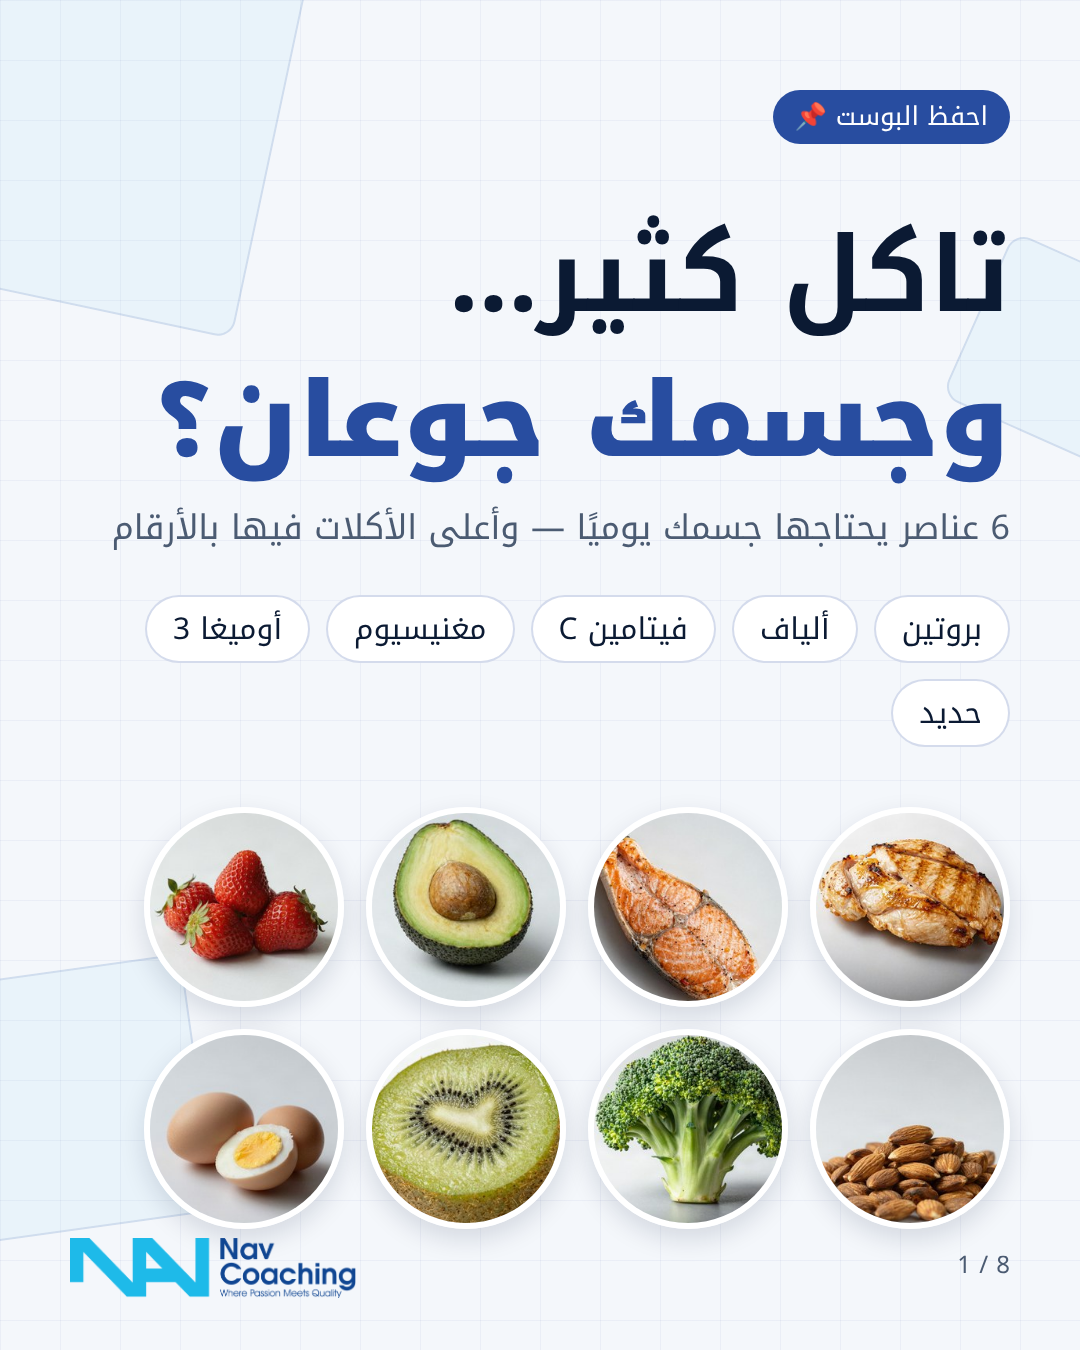
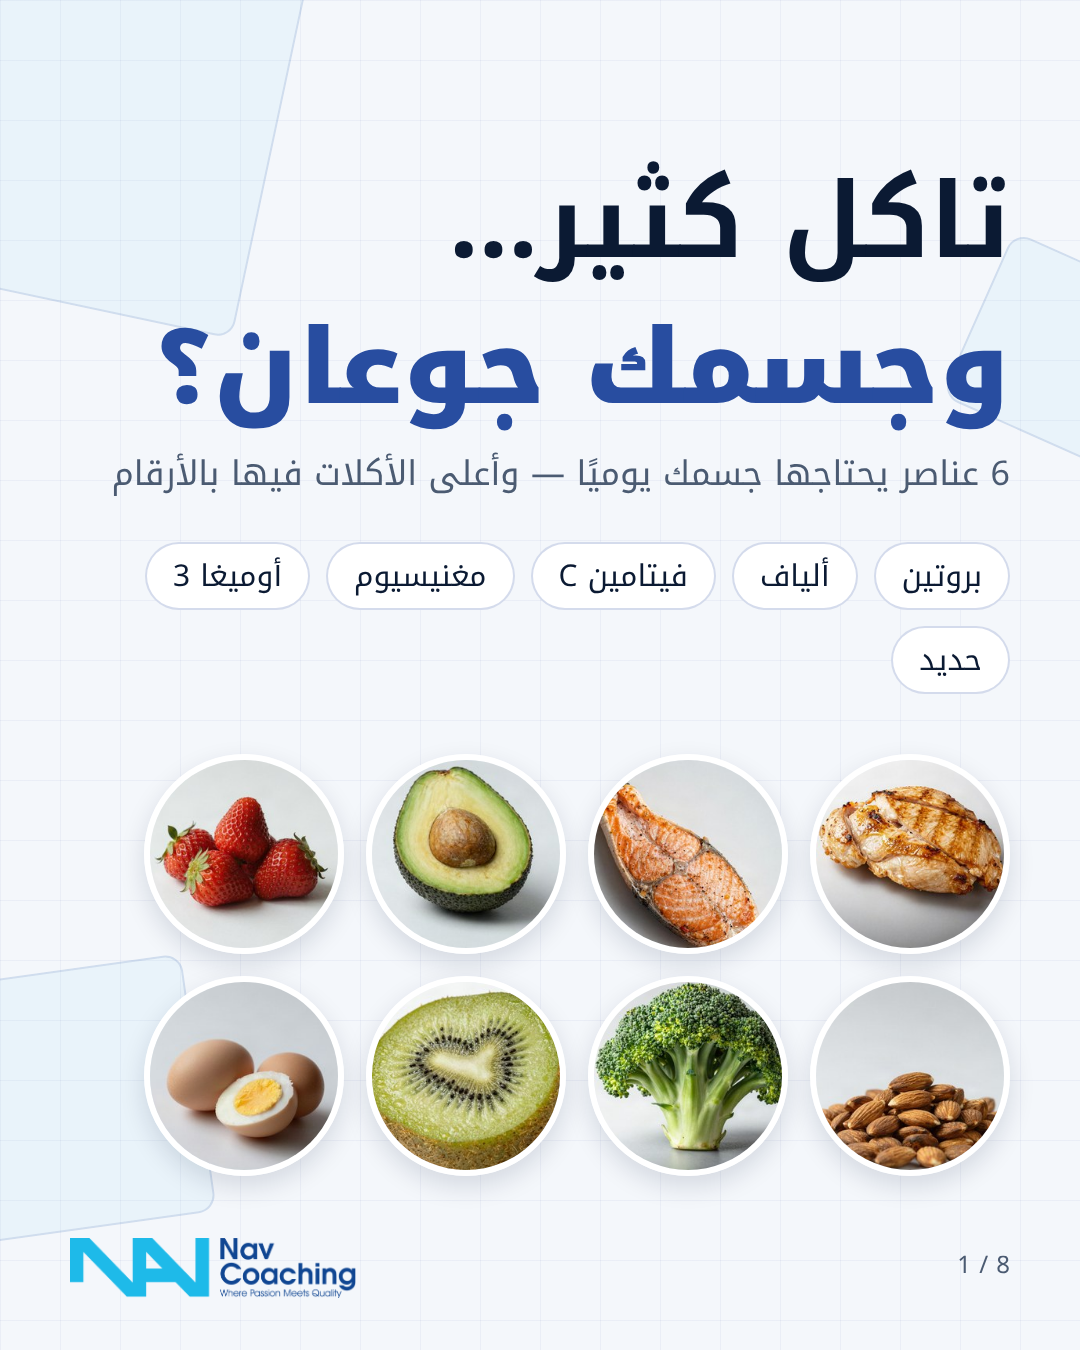
foods carousel: critique fixes - nutrient as hero, values at bar tips, spotlight #1, drop eyebrows
Claude-Session: https://claude.ai/code/session_014K8VAaJoHdbEmLTmDkRNee

Changed region(s): [[0.0917, 0.0622, 0.9472, 0.9333], [0.1222, 0.56, 0.5194, 0.9333], [0.4278, 0.1556, 0.4889, 0.1867]]

diff --git a/instagram/foods/slides.html b/instagram/foods/slides.html
@@ -10,20 +10,23 @@ section.s{width:1080px;height:1350px;position:relative;overflow:hidden;backgroun
 h1{font-size:64px;line-height:1.45;margin:22px 0 6px;word-spacing:4px}
 h1 b{color:#284da0}
 .sub{font-size:26px;color:#4b5b72;line-height:1.6;margin-bottom:34px}
-.row{display:flex;align-items:center;gap:18px;height:100px}
+.row{display:flex;align-items:center;gap:18px;height:92px}
 .ph{width:88px;height:88px;border-radius:50%;object-fit:cover;border:4px solid #fff;box-shadow:0 6px 16px #0b1a3322;flex:none}
 .lb{width:230px;font-size:32px;font-weight:600;line-height:1.5}
 .tr{flex:1;height:58px;background:#284da00f;border-radius:14px;position:relative;overflow:hidden}
 .br{position:absolute;right:0;top:0;bottom:0;border-radius:14px;background:linear-gradient(270deg,#284da0,#4cc5ed)}
-.row:first-child .br{background:linear-gradient(270deg,#0b1a33,#284da0)}
-.v{width:170px;font-size:34px;font-weight:800;text-align:left;white-space:nowrap}
+.rows .row:first-child .br{background:linear-gradient(270deg,#0b1a33,#284da0)}
+.v{position:absolute;top:50%;transform:translateY(-50%);font-size:32px;font-weight:800;white-space:nowrap;line-height:1}
+.v.in{color:#fff}.v.in small{color:#ffffffcc}
+.hero{font-size:96px;line-height:1.25;color:#284da0;margin:0 0 8px}.hero .k{font-size:44px;color:#0b1a33;font-weight:700}
+.rows .row:first-child .ph{width:104px;height:104px}.rows .row:first-child .lb{font-weight:800;width:214px}
 .v small{font-size:20px;color:#4b5b72;font-weight:500}
 .note{margin-top:26px;background:#fff;border-right:8px solid #4cc5ed;border-radius:14px;padding:18px 26px;font-size:26px;line-height:1.65;box-shadow:0 8px 24px #0b1a3310}
 .cover h1{font-size:104px;line-height:1.4;margin-top:60px}
 .cover .sub{font-size:34px}
 .chips{display:flex;flex-wrap:wrap;gap:16px;margin-top:40px}.chips span{background:#fff;border:2px solid #284da033;border-radius:40px;padding:8px 26px;font-size:30px;line-height:1.6}
 .col{display:flex;flex-wrap:wrap;gap:22px;margin-top:60px}.col img{width:200px;height:200px;border-radius:50%;object-fit:cover;border:6px solid #fff;box-shadow:0 10px 26px #0b1a3322}
-.wrap:has(.note) .row{height:88px}.wrap:has(.note) .ph{width:78px;height:78px}
+.wrap:has(.note) .row{height:80px}.wrap:has(.note) .ph{width:78px;height:78px}
 </style></head><body><div id="root"></div><script>
 const D=[
 ['بروتين','أعلى الأطعمة <b>بالبروتين</b>','لكل 100 غرام • اللحوم والأسماك مطبوخة','غ',[['صدر دجاج',31],['تونة مطبوخة',30],['ديك رومي',29],['لحم بقر قليل الدهن',26],['سلمون',25],['روبيان',24],['توفو صلب',17],['بيض',13]]],
@@ -35,9 +38,9 @@ const D=[
 const IM={"صدر دجاج": "chicken", "تونة مطبوخة":"tuna","توفو صلب":"tofu","فشار بدون زيت":"popcorn","سبانخ مطبوخ":"spinach","تونة": "tuna", "ديك رومي": "turkey", "لحم بقر قليل الدهن": "beef", "سلمون": "salmon", "روبيان": "shrimp", "توفو": "tofu", "بيض": "eggs", "بذور الشيا": "chia", "بذور الكتان": "flax", "فشار": "popcorn", "لوز": "almonds", "شوكولاتة داكنة": "choc", "شوفان": "oats", "عدس مطبوخ": "lentils", "عدس": "lentils", "أفوكادو": "avocado", "جوافة": "guava", "فلفل أصفر": "ypep", "فلفل أحمر": "rpep", "كيوي": "kiwi", "بروكلي": "broccoli", "بابايا": "papaya", "فراولة": "straw", "برتقال": "orange", "كاجو": "cashews", "سبانخ": "spinach", "فاصوليا سوداء": "bbeans", "جوز": "walnuts", "ماكريل": "mackerel", "سردين": "sardines", "بلح البحر": "mussels", "كبدة بقر": "liver", "لحم بقر": "beef"};
 const bg=()=>`<div class="grid"></div><div class="sq" style="width:420px;height:420px;top:-120px;left:-140px"></div><div class="sq" style="width:260px;height:260px;bottom:120px;left:-60px;transform:rotate(-8deg)"></div><div class="sq" style="width:180px;height:180px;top:260px;right:-70px;transform:rotate(24deg)"></div>`;
 const foot=i=>`<img class="logo" src="../../brand/logo-color-hd.png"><div class="n">${i} / 8</div>`;
-let h=`<section class="s cover">${bg()}<div class="wrap"><span class="eb">احفظ البوست 📌</span><h1>تاكل كثير…<br><b style="color:#284da0">وجسمك جوعان؟</b></h1><div class="sub">6 عناصر يحتاجها جسمك يوميًا — وأعلى الأكلات فيها بالأرقام</div><div class="chips">${D.map(d=>`<span>${d[0]}</span>`).join('')}</div><div class="col">${['chicken','salmon','avocado','straw','almonds','broccoli','kiwi','eggs'].map(k=>`<img src="img/${k}.jpg">`).join('')}</div></div>${foot(1)}</section>`;
+let h=`<section class="s cover">${bg()}<div class="wrap"><h1>تاكل كثير…<br><b style="color:#284da0">وجسمك جوعان؟</b></h1><div class="sub">6 عناصر يحتاجها جسمك يوميًا — وأعلى الأكلات فيها بالأرقام</div><div class="chips">${D.map(d=>`<span>${d[0]}</span>`).join('')}</div><div class="col">${['chicken','salmon','avocado','straw','almonds','broccoli','kiwi','eggs'].map(k=>`<img src="img/${k}.jpg">`).join('')}</div></div>${foot(1)}</section>`;
 D.forEach((d,k)=>{const m=Math.max(...d[4].map(x=>x[1]));
-h+=`<section class="s">${bg()}<div class="wrap"><span class="eb">${d[0]}</span><h1>${d[1]}</h1><div class="sub">${d[2]}</div>${d[4].map(([n,v])=>`<div class="row"><img class="ph" src="img/${IM[n]}.jpg"><div class="lb">${n}</div><div class="tr"><div class="br" style="width:${Math.max(4,v/m*100)}%"></div></div><div class="v">${v} <small>${d[3]}</small></div></div>`).join('')}${d[5]?`<div class="note">${d[5]}</div>`:''}</div>${foot(k+2)}</section>`});
+h+=`<section class="s">${bg()}<div class="wrap"><h1 class="hero"><span class="k">أعلى ${d[4].length} أكلات في</span><br>${d[1].match(/<b>ب(.*)<\/b>/)[1]}</h1><div class="sub">${d[2]}</div><div class="rows">${d[4].map(([n,v])=>{const w=Math.max(4,v/m*100),inn=w>62;return `<div class="row"><img class="ph" src="img/${IM[n]}.jpg"><div class="lb">${n}</div><div class="tr"><div class="br" style="width:${w}%"></div><div class="v${inn?' in':''}" style="${inn?`left:calc(${100-w}% + 18px)`:`right:calc(${w}% + 14px)`}">${v} <small>${d[3]}</small></div></div></div>`}).join('')}</div>${d[5]?`<div class="note">${d[5]}</div>`:''}</div>${foot(k+2)}</section>`});
 h+=`<section class="s cover">${bg()}<div class="wrap"><h1 style="font-size:68px">احفظ البوست<br><b style="color:#284da0">وارجع له قبل ما تطبخ</b></h1><div class="sub">تبي خطة أكل وتمارين على هدفك؟ اطلبها من موقعنا</div><div class="chips"><span>navcoaching.com</span></div><div class="col">${['guava','shrimp','chia','ypep','walnuts','spinach','lentils','choc'].map(k=>`<img src="img/${k}.jpg">`).join('')}</div></div>${foot(8)}</section>`;
 root.innerHTML=h;
 document.querySelectorAll('.lb').forEach(e=>{let f=32;while(e.scrollHeight>52&&f>22){e.style.fontSize=--f+'px'}});
